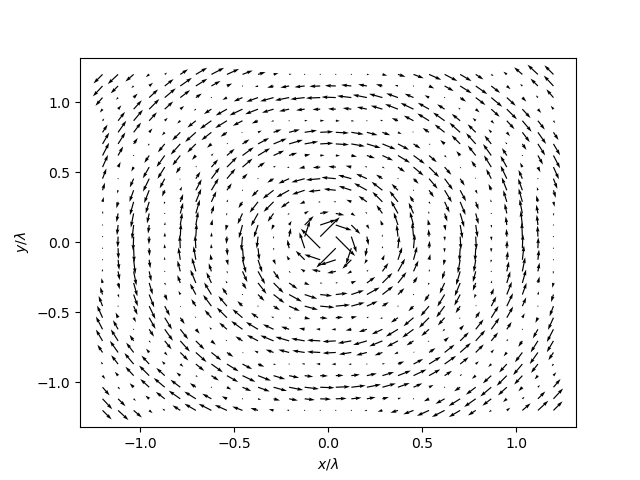
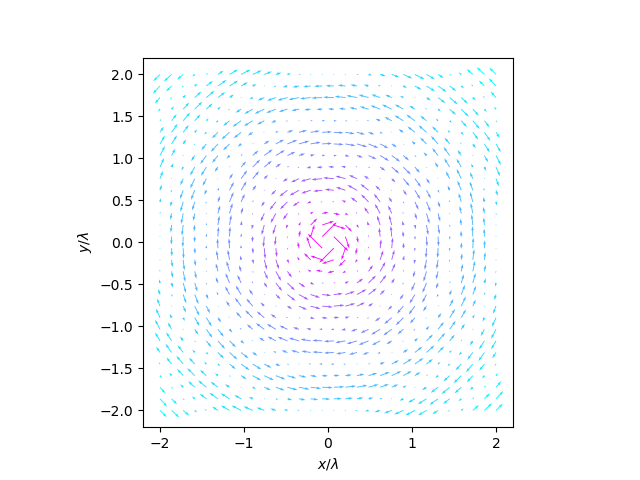
EBFieldSolver

diff --git a/src/HertzDipole.py b/src/HertzDipole.py
@@ -33,7 +33,7 @@ def dipole_e_vec(x, y, z, p, t):
     c5 = 1j / c2 ** 2
     c6 = 1j * (c2 - (_omega * t))
 
-    E = c1 * ((rcrossp_cross_r * c3) + r_dot_rdotp * (c4 - c5)) * np.exp(c6)
+    E = c1 * ((rcrossp_cross_r * c3) + (r_dot_rdotp * (c4 - c5))) * np.exp(c6)
     return E
 
 
@@ -97,18 +97,23 @@ if __name__ == "__main__":
                 Sx[i][j] = np.real(S[0])
                 Sz[i][j] = np.real(S[2])
 
-        plt.rcParams['image.cmap'] = 'bwr'
+        plt.rcParams['image.cmap'] = 'cool'
         B_norm = np.hypot(Bx, By)
-        plt.quiver(X2, Y, Bx, By)
+        plt.quiver(X2 / _wavelength, Y / _wavelength, Bx, By, 1 / (2.0 + np.hypot(X2, Y)))
         # S_norm = np.hypot(Sx, Sz)
-        # plt.quiver(X1, Z, Sx, Sz)
+        # plt.quiver(X1, Z, Sx / S_norm, Sz / S_norm)
+        # plt.rcParams['image.cmap'] = 'winter'
         # E_norm = np.hypot(Ex, Ez)
-        # plt.quiver(X1, Z, Ex / E_norm, Ez / E_norm)
+        # plt.quiver(X1, Z, Ex / E_norm, Ez / E_norm, Ez / E_norm)
+        # plt.contour(X1, Z, E_norm, levels=np.linspace(2, 10, 4))
+
         # plt.pcolormesh(X1, Z, E_norm, cmap='hot')
         plt.xlabel(r'$x/\lambda$')
         plt.ylabel(r'$y/\lambda$')
+        plt.gca().set_aspect('equal')
         plt.savefig('img/dipole/dipole' + str(counter) + '.png')
         plt.cla()
+        print('Frame#' + str(counter))
         counter = counter + 1
 
     with iio.get_writer('img/dipole.gif', mode='I') as writer:

diff --git a/src/MagneticField.py b/src/MagneticField.py
@@ -42,13 +42,13 @@ conductors = []
 # conductors.append(Conductor(50E-3, [0.0, 0.0]))
 
 # conductor loop
-conductors.append(Conductor(-1.0, [0.0, 3.0]))
-conductors.append(Conductor(1.0, [0.0, -3.0]))
+# conductors.append(Conductor(-1.0, [0.0, 3.0]))
+# conductors.append(Conductor(1.0, [0.0, -3.0]))
 
 # coil
-# for i in np.linspace(-5, 5, 10):
-#     conductors.append(Conductor(-1.0, [i, 3.0]))
-#     conductors.append(Conductor(1.0, [i, -3.0]))
+for i in np.linspace(-5, 5, 10):
+    conductors.append(Conductor(-1.0, [i, 3.0]))
+    conductors.append(Conductor(1.0, [i, -3.0]))
 
 
 def compute_total_field(x, y, conductors):
